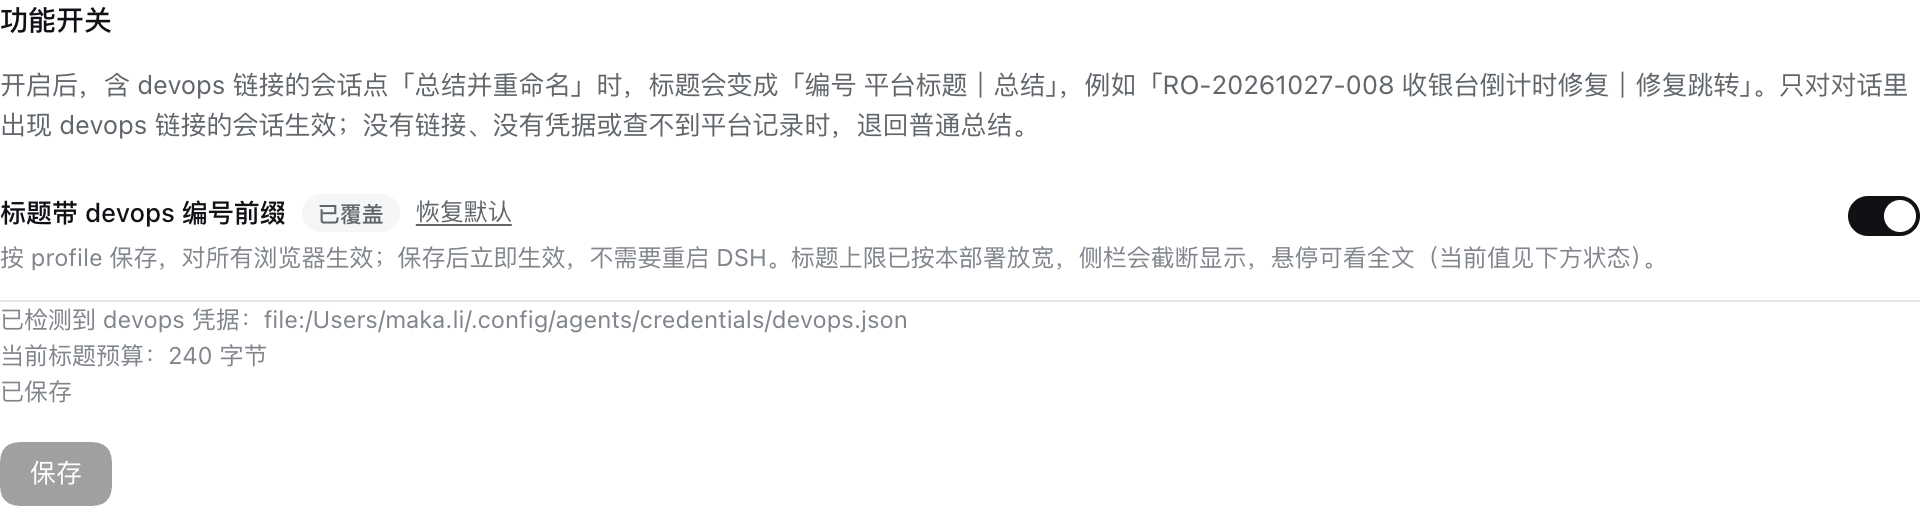
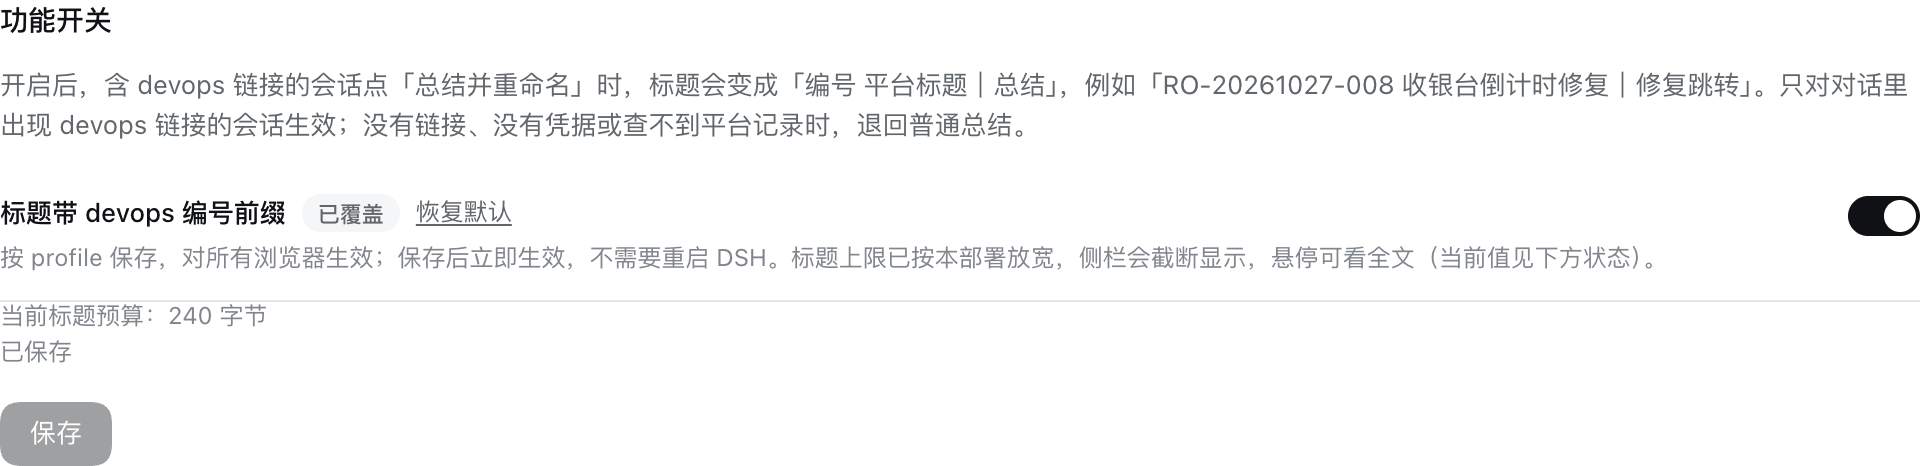
发布 @local/session-rename@0.1.2

diff --git a/plugins/dsh-session-rename/README.md b/plugins/dsh-session-rename/README.md
@@ -6,7 +6,7 @@
 
 ![会话行悬停时的总结重命名按钮](docs/preview.png)
 
-*图：鼠标移到会话行上，右侧按钮区出现「更多 / 归档 / 置顶 / 总结重命名」；悬停 sparkle 图标提示「总结并重命名」。按钮排在置顶按钮右边，不需要安装置顶或归档插件也能用。*
+*图：鼠标移到会话行上，右侧按钮区出现「更多 / 归档 / 置顶 / 总结重命名」，最右边的 sparkle 图标就是本插件；它排在置顶按钮右边，不需要安装置顶或归档插件也能用。*
 
 ![点击后的新标题与成功提示](docs/preview-result.png)
 
@@ -14,7 +14,7 @@
 
 ![插件页上的 devops 编号前缀开关](docs/preview-config.png)
 
-*图：插件页（插件 → 已安装插件 → 总结重命名）详情文档下方的「功能开关」区：开关、格式说明、凭据检测结果、当前标题预算与保存按钮。*
+*图：插件页（插件 → 已安装插件 → 总结重命名）详情文档下方的「功能开关」区：开关、格式说明、当前标题预算与保存按钮。*
 
 ![带 devops 前缀的会话标题](docs/preview-devops.png)
 
@@ -91,7 +91,7 @@ dsh plugin --profile desktop add /path/to/dsh-session-rename
 | 配置 | 位置 | 默认 |
 | --- | --- | --- |
 | 标题带 devops 编号前缀 | 插件页 → 总结重命名 → 功能开关 | 关 |
-| 标题字节上限 | profile 的 `cordis.patch.yml`：`session-title.maxTitleBytes: 240` | 本仓库安装时已写入；其他部署可自行调整，未放宽时插件会自动压缩标题 |
+| 标题字节上限 | profile 的 `cordis.patch.yml`：`session-title.maxTitleBytes: 240` | 装到本机 profile 时已写入这个上限；其他部署可自行调整，未放宽时插件会自动压缩标题 |
 
 模型跟随会话当前路由。devops 凭据见上方「凭据」一行。
 

diff --git a/plugins/dsh-session-rename/CHANGELOG.md b/plugins/dsh-session-rename/CHANGELOG.md
@@ -1,5 +1,10 @@
 # 变更历史
 
+## [0.1.2] - 2026-11-10
+
+- 文档：插件详情页的效果图不再露出本机凭据路径（不暴露本机用户名），图注与截图实际内容一致。
+- 文档：仓库不再收录内部 devops 调研笔记和用不到的 pnpm-lock.yaml；标题上限说明改为「装到本机 profile 时写入」。
+
 ## [0.1.1] - 2026-11-10
 
 - 首个版本：会话行悬停点一下，用该会话自己的模型把整段对话概括成一行标题并直接重命名；标题会被钉住，之后的自动标题不再覆盖它。
